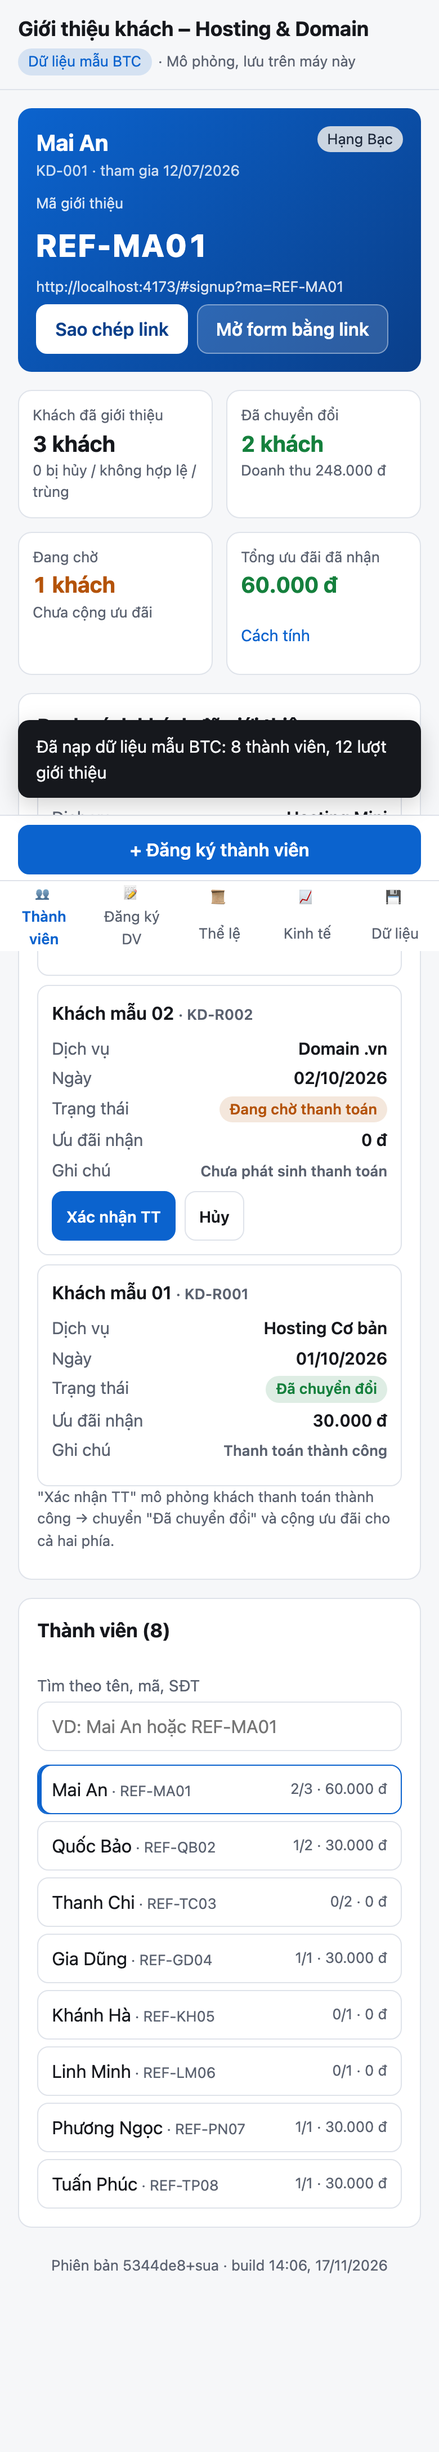
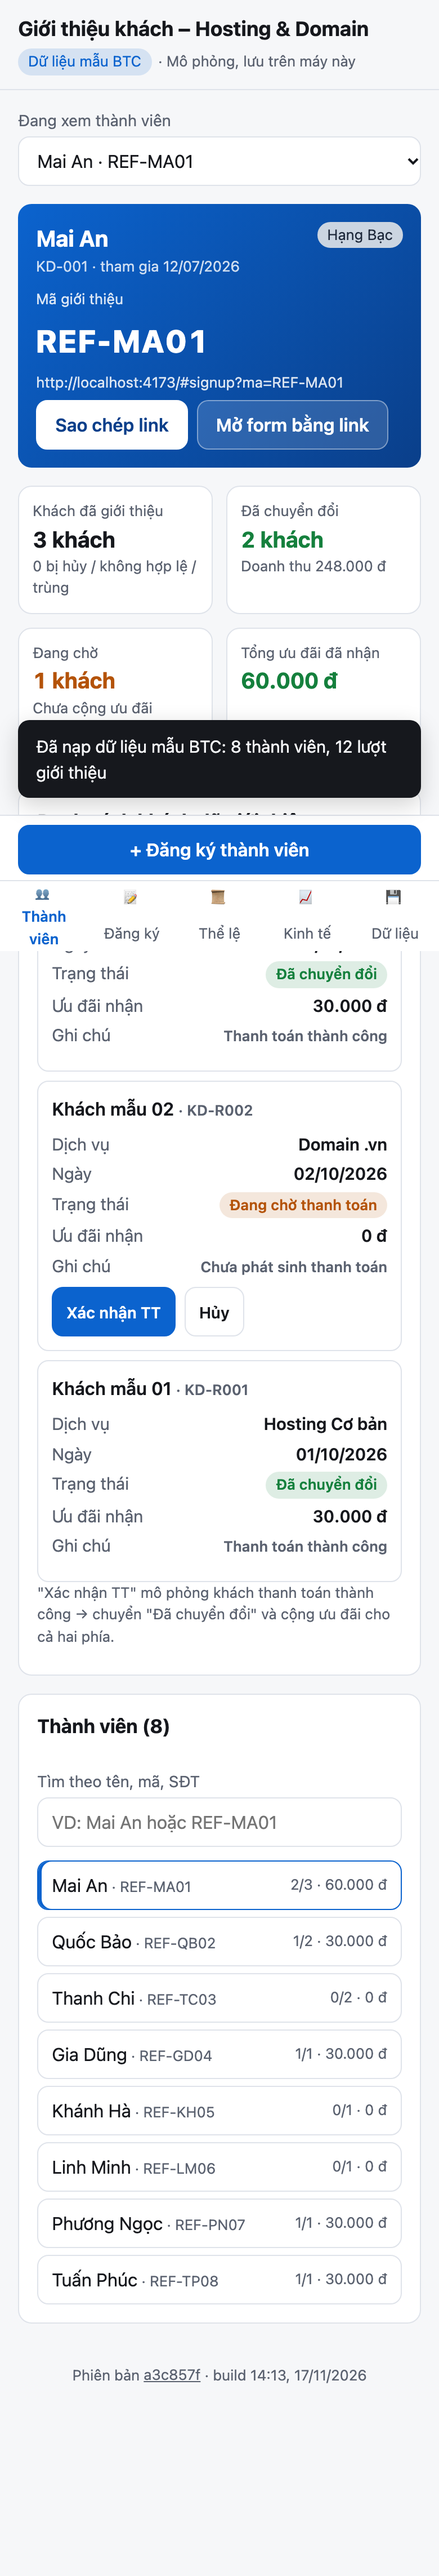
feat: tỉ lệ DT/CP 2 chữ số, README

diff --git a/src/pages/EconomicsPage.tsx b/src/pages/EconomicsPage.tsx
@@ -11,7 +11,7 @@ import { copyText, fromPct, toPct } from '../lib/view'
 import { MonthlyChart } from './MonthlyChart'
 
 const money = (v: number) => formatNumber(v, 0)
-const ratioText = (r: number | null) => (r === null ? 'Không tính được' : `${formatNumber(r)} lần`)
+const ratioText = (r: number | null) => (r === null ? 'Không tính được' : `${r.toFixed(2).replace('.', ',')} lần`)
 
 export function EconomicsPage({ store }: { store: Store }) {
   const toast = useToast()
@@ -112,7 +112,7 @@ export function EconomicsPage({ store }: { store: Store }) {
 
       <section className="card">
         <h2>Kịch bản</h2>
-        <p className="hint">Thận trọng / Tốt: nhân tỉ lệ tham gia và tỉ lệ chuyển đổi với 0,5 / 1,5 (tối đa 100%).</p>
+        <p className="hint">Thận trọng / Tốt: nhân tỉ lệ tham gia và tỉ lệ chuyển đổi với 0,5 / 1,5 (tối đa 100%). Tỉ lệ DT/CP không đổi giữa kịch bản vì cả doanh thu lẫn ưu đãi đều tính theo từng khách — chương trình chỉ trả khi có khách, nên số khách ít đi không làm lỗ.</p>
         <div className="scen-grid">
           {scen.map((s) => (
             <div key={s.key} className={`scen ${s.key === 'base' ? 'scen-base' : ''}`}>

diff --git a/src/lib/summary.ts b/src/lib/summary.ts
@@ -21,7 +21,7 @@ export function programSummary(a: Assumptions, actual: ProgramStats | null, link
     `• × ${formatNumber(a.referralsPerMember)} lượt/người = ${p.potential} khách tiềm năng × ${formatPercent(a.conversion)} chuyển đổi = ${p.newCustomers} khách mới`,
     `• Doanh thu tháng đầu: ${formatVnd(p.revenue)} (${formatVnd(a.revenuePerCustomer)}/khách)`,
     `• Chi phí ưu đãi: ${formatVnd(p.totalCost)} (${formatVnd(p.rewardPerCustomer)}/khách)`,
-    `• Doanh thu / chi phí ưu đãi: ${p.ratio === null ? 'không tính được (chi phí = 0)' : formatNumber(p.ratio) + ' lần'}`,
+    `• Doanh thu / chi phí ưu đãi: ${p.ratio === null ? 'không tính được (chi phí = 0)' : p.ratio.toFixed(2).replace('.', ',') + ' lần'}`,
     `• So với quảng cáo ${formatVnd(a.adCostPerCustomer)}/khách: tiết kiệm ${formatVnd(p.savingPerCustomer)}/khách, tổng ${formatVnd(p.totalSaving)}`,
   ]
   if (actual) {

diff --git a/README.md b/README.md
@@ -1,32 +1,73 @@
-# React + TypeScript + Vite
+# Chương trình thành viên giới thiệu khách (Referral) – Hosting & Domain
 
-This template provides a minimal setup to get React working in Vite with HMR and some Oxlint rules.
+App tĩnh một trang mô phỏng chương trình giới thiệu khách cho doanh nghiệp hosting/domain, kèm phân tích kinh tế. Chạy trên điện thoại và máy tính, không cần đăng nhập. Dữ liệu lưu trên trình duyệt (localStorage).
 
-Currently, two official plugins are available:
+- **Link chính (cPanel):** `https://gioithieu.<tên-miền>` *(điền sau khi upload)*
+- **Link dự phòng (GitHub Pages):** https://minhquanvibecode.github.io/referral-hosting-app/
+- **Mã nguồn:** https://github.com/minhquanvibecode/referral-hosting-app
+- Chân trang mỗi tab hiện `Phiên bản <commit> · build <giờ>`, bấm vào sẽ mở đúng commit. Bản nộp gắn tag `nop-bai`.
 
-- [@vitejs/plugin-react](https://github.com/vitejs/vite-plugin-react/blob/main/packages/plugin-react) uses [Oxc](https://oxc.rs)
-- [@vitejs/plugin-react-swc](https://github.com/vitejs/vite-plugin-react/blob/main/packages/plugin-react-swc) uses [SWC](https://swc.rs/)
+## Dùng thử trong 1 phút
+1. Mở link → bấm **Nạp dữ liệu mẫu BTC** (8 thành viên, 12 lượt giới thiệu ở đủ trạng thái).
+2. Tab **Thành viên**: chọn *Mai An*. Thẻ thành viên có mã `REF-MA01`, nút **Sao chép link**, 3 khách đã giới thiệu, 2 khách đã chuyển đổi, tổng ưu đãi 60.000 đ, hạng Bạc.
+3. Bấm **Mở form bằng link** → tab **Đăng ký** điền sẵn mã. Nhập tên và SĐT mới → **Đăng ký dịch vụ** → lượt ở trạng thái "Đang chờ thanh toán" → **Mô phỏng thanh toán** → "Đã chuyển đổi", hai phía được cộng 30.000 đ.
+4. Thử gian lận: mã `REF-LM06` + SĐT `0900002006` → "Không hợp lệ – Tự giới thiệu"; mã `REF-QB02` + định danh `KH-DEMO-003` → "Từ chối - trùng".
+5. Tab **Kinh tế**: sửa giả định và xem kết quả đổi ngay; mỗi con số có khối **Cách tính**. Có 3 kịch bản, biểu đồ 12 tháng và nút **Sao chép tóm tắt chương trình**.
 
-## React Compiler
+## Đáp ứng đề
+| Yêu cầu | Ở đâu |
+|---|---|
+| Đăng ký thành viên, mã/link riêng | Tab Thành viên → "+ Đăng ký thành viên"; mã tự sinh `REF-<chữ cái><số>`; link `…/#signup?ma=MÃ` |
+| Form giả lập người được giới thiệu | Tab Đăng ký: kiểm tra mã ngay khi gõ, hiện tên người giới thiệu, ghi lượt, cộng ưu đãi khi thanh toán |
+| Trang theo dõi thành viên | Số khách, danh sách + trạng thái, tổng ưu đãi đã nhận (tính lại từ danh sách lượt) |
+| Thể lệ | Tab Thể lệ: ưu đãi 2 phía, tầng 2, hạng thẻ, điều kiện nhận, chống gian lận, bảng giá giả định |
+| Bảng Kinh tế | Tab Kinh tế: giả định → khách mới, doanh thu, chi phí ưu đãi, tỉ lệ doanh thu/chi phí; công thức hiển thị cạnh từng số |
+| Nạp dữ liệu mẫu | Nút "Nạp dữ liệu mẫu BTC" (màn hình trống và tab Dữ liệu) |
+| Mở rộng | Ưu đãi 2 tầng · Biểu đồ dự phóng theo tháng · Sao chép tóm tắt · Kịch bản Thận trọng/Cơ sở/Tốt · Nạp/xuất Excel (đọc được nguyên file BTC) |
 
-The React Compiler is not enabled on this template because of its impact on dev & build performances. To add it, see [this documentation](https://react.dev/learn/react-compiler/installation).
+## Thể lệ và giá giả định
+- **Người giới thiệu:** 30.000 đ cho mỗi lượt chuyển đổi đủ điều kiện. **Khách mới:** 30.000 đ giảm vào đơn đầu tiên (theo KD_QuyDinh của BTC).
+- **Tầng 2 (giả định của đội):** A giới thiệu B làm thành viên. Mỗi khách B giới thiệu được chuyển đổi, A nhận thêm 10.000 đ.
+- **Điều kiện nhận:** chỉ cộng khi dịch vụ thanh toán thành công. Các trạng thái Đang chờ thanh toán, Đang xử lý, Đang rà soát, Đã hủy chưa được cộng.
+- **Chống gian lận:**
+  - SĐT hoặc định danh của khách trùng với chủ mã → "Không hợp lệ" (tự giới thiệu).
+  - Khách đã có lượt còn hiệu lực → "Từ chối - trùng".
+  - Mã không tồn tại → không ghi nhận.
+  - Mỗi SĐT chỉ đăng ký được một thành viên.
+- **Giá dịch vụ (doanh thu tháng đầu, theo dữ liệu BTC):** Hosting Mini 99.000 đ, Hosting Cơ bản 149.000 đ, Hosting Pro 279.000 đ, Domain .vn 59.000 đ, Domain .com 420.000 đ. Đội đã đối chiếu với giá phổ thông trên thị trường VN: hosting 50.000–400.000 đ/tháng, .com 300.000–450.000 đ/năm.
+- **Vì sao khả thi:** ưu đãi 2 phía là 60.000 đ/khách, bằng khoảng 3% doanh thu 12 tháng của gói Hosting Cơ bản, và thấp hơn chi phí quảng cáo 90.000 đ/khách.
 
-## Expanding the Oxlint configuration
+## Công thức (tab Kinh tế, khớp bảng KD_DuPhong của BTC)
+```
+Thành viên tham gia = Số thành viên × Tỉ lệ tham gia          = 1.200 × 15% = 180
+Khách tiềm năng     = Thành viên tham gia × Lượt/người        = 180 × 2     = 360
+Khách mới           = Khách tiềm năng × Tỉ lệ chuyển đổi       = 360 × 25%   = 90
+Doanh thu tháng đầu = Khách mới × Doanh thu TB/khách          = 90 × 180.000 = 16.200.000 đ
+Ưu đãi/khách        = Người GT + Khách mới + Tầng 2 × Tỉ lệ tầng 2 = 30.000 + 30.000 + 0 = 60.000 đ
+Tổng chi phí ưu đãi = Khách mới × Ưu đãi/khách                = 5.400.000 đ
+Doanh thu / chi phí = 16.200.000 ÷ 5.400.000                  = 3,00 lần
+Tiết kiệm so với quảng cáo = 90.000 − 60.000 = 30.000 đ/khách
+Theo tháng: Khách_t = Khách_(t−1) × Tỉ lệ giữ chân (90%, giả định đội) + Khách mới; Doanh thu_t = Khách_t × 180.000 đ
+```
+**Làm tròn:** số người và số khách được làm tròn xuống ở từng bước (dự phóng thận trọng). Tiền là số nguyên đồng. Tỉ lệ hiển thị 2 chữ số thập phân. Chi phí = 0 thì hiện "Không tính được".
 
-If you are developing a production application, we recommend enabling type-aware lint rules by installing `oxlint-tsgolint` and editing `.oxlintrc.json`:
+## Quyết định cho các điểm đề chưa rõ
+Chi tiết trong `docs/PHAN-TICH-DE.md`. Tóm tắt:
+- Không có đăng nhập: chọn thành viên từ danh sách.
+- Lượt tự giới thiệu và lượt trùng vẫn được ghi lại kèm lý do, để giám khảo thấy quy tắc đang chạy.
+- Tầng 2 mặc định tắt trong dự phóng (0%) để kết quả khớp ví dụ BTC; bật lên để xem tác động.
+- Nạp dữ liệu mẫu khi đang có dữ liệu → hiện hộp thoại xác nhận trong trang trước khi thay.
 
-```json
-{
-  "$schema": "./node_modules/oxlint/configuration_schema.json",
-  "plugins": ["react", "typescript", "oxc"],
-  "options": {
-    "typeAware": true
-  },
-  "rules": {
-    "react/rules-of-hooks": "error",
-    "react/only-export-components": ["warn", { "allowConstantExport": true }]
-  }
-}
+## Kỹ thuật
+Vite + React + TypeScript. Bộ tính toán là hàm thuần trong `src/lib/calc/`, có 18 test Vitest khớp bảng số tính tay. Thư viện Excel (SheetJS) chỉ tải khi cần dùng. Biểu đồ vẽ bằng SVG tự viết.
+```bash
+npm i
+npm run dev          # chạy thử
+npm test             # kiểm tra công thức
+npm run check:ui     # kiểm tra giao diện điện thoại + máy tính (cần: npm run build && npx vite preview --port 4173)
+npm run deploy:pages # đưa bản build lên nhánh gh-pages
+npm run pack         # tạo dist.zip để upload cPanel
 ```
 
-See the [Oxlint rules documentation](https://oxc.rs/docs/guide/usage/linter/rules) for the full list of rules and categories.
+## Minh chứng
+Ảnh chụp tự động trong thư mục `evidence/`: `390-chrome-*.png` (điện thoại), `1280-desktop-*.png` (máy tính).
